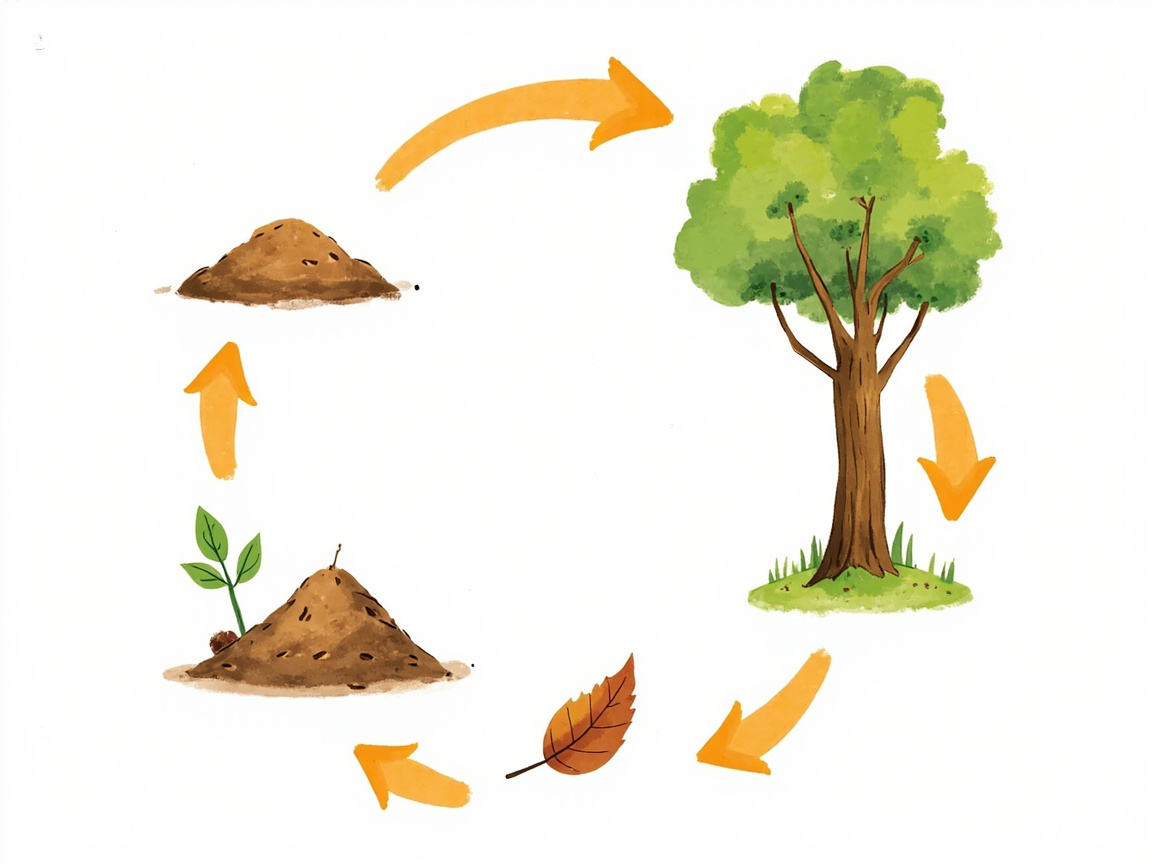
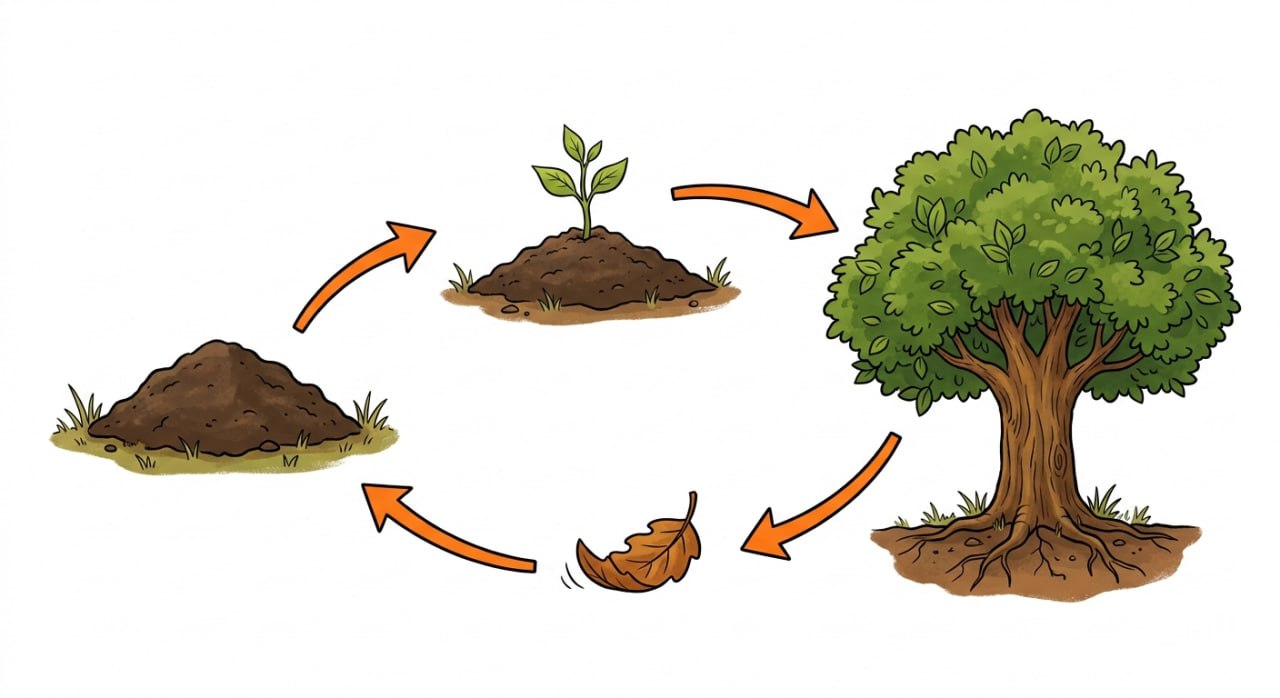
v5.7.2: kretslopp — Johannas referensbild (hand-drawn cycle, klar)

diff --git a/index.html b/index.html
@@ -11,7 +11,7 @@
   <link rel="manifest" href="manifest.json">
   <link rel="apple-touch-icon" href="icons/icon-192.png">
   <link rel="icon" type="image/png" sizes="192x192" href="icons/icon-192.png">
-  <link rel="stylesheet" href="styles.css?v=15">
+  <link rel="stylesheet" href="styles.css?v=16">
   <title>Begrepp</title>
 </head>
 <body>
@@ -124,6 +124,6 @@
     <button id="dismissInstall" aria-label="Stäng">✕</button>
   </footer>
 
-  <script src="app.js?v=15"></script>
+  <script src="app.js?v=16"></script>
 </body>
 </html>

diff --git a/sw.js b/sw.js
@@ -1,7 +1,7 @@
 // Begrepp service worker
 // Strategy: cache-first for app shell, network-first for data (begrepp-data.json).
 
-const CACHE_NAME = "begrepp-v29";
+const CACHE_NAME = "begrepp-v30";
 const APP_SHELL = [
   './',
   'index.html',
